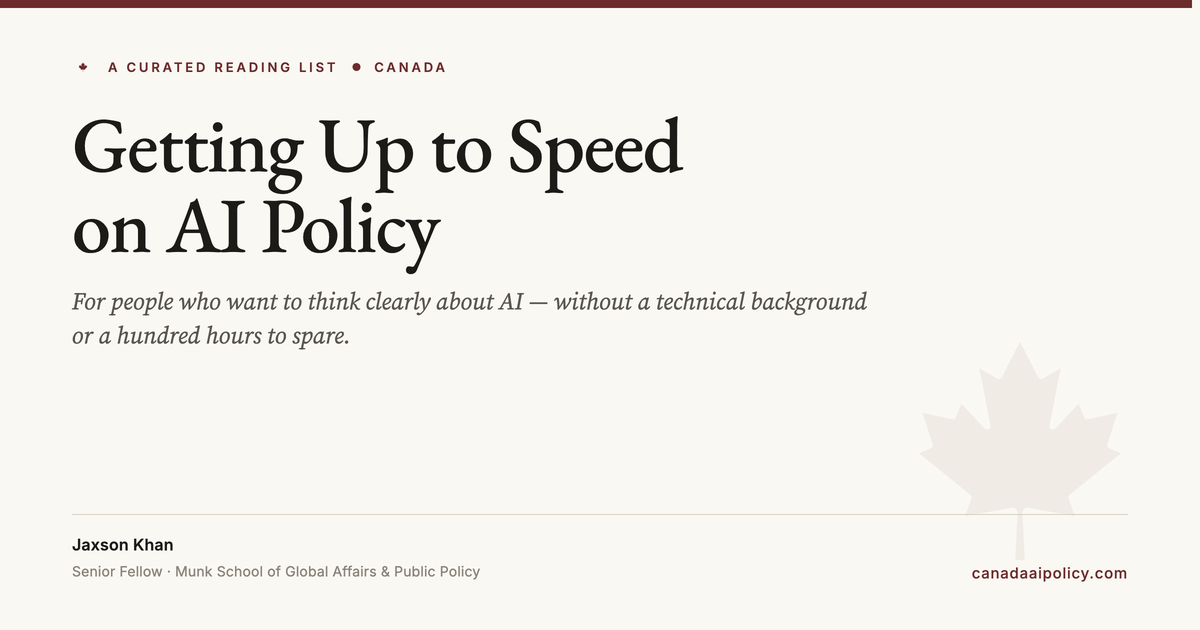
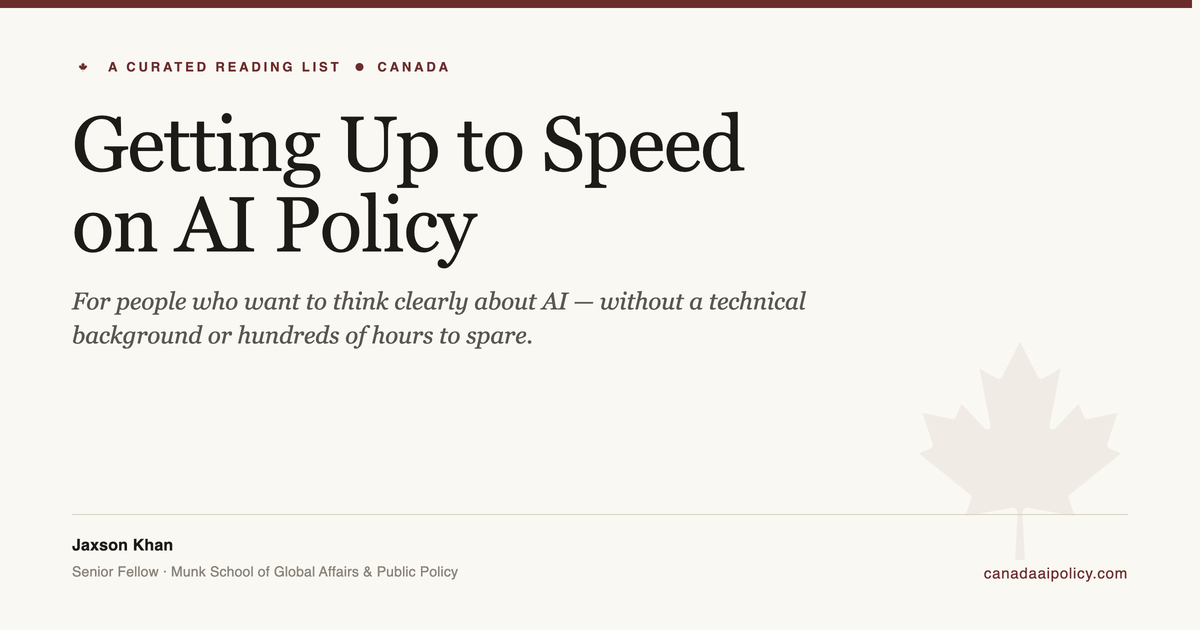
Tweak tagline: "a hundred hours" → "hundreds of hours"
Applied to both the site tagline and the regenerated OG preview image.

diff --git a/index.html b/index.html
@@ -565,7 +565,7 @@
 <header class="site-header">
   <div class="eyebrow">A Curated Reading List</div>
   <h1 class="site-title">Getting Up to Speed on AI Policy</h1>
-  <p class="tagline">For people who want to think clearly about AI &mdash; without a technical background or a hundred hours to spare.</p>
+  <p class="tagline">For people who want to think clearly about AI &mdash; without a technical background or hundreds of hours to spare.</p>
   <p class="byline">Curated by <a href="https://jaxsonkhan.com" target="_blank" rel="noopener">Jaxson Khan</a> &middot; Senior Fellow, <a href="https://munkschool.utoronto.ca" target="_blank" rel="noopener">Munk School of Global Affairs &amp; Public Policy</a></p>
 </header>
 
